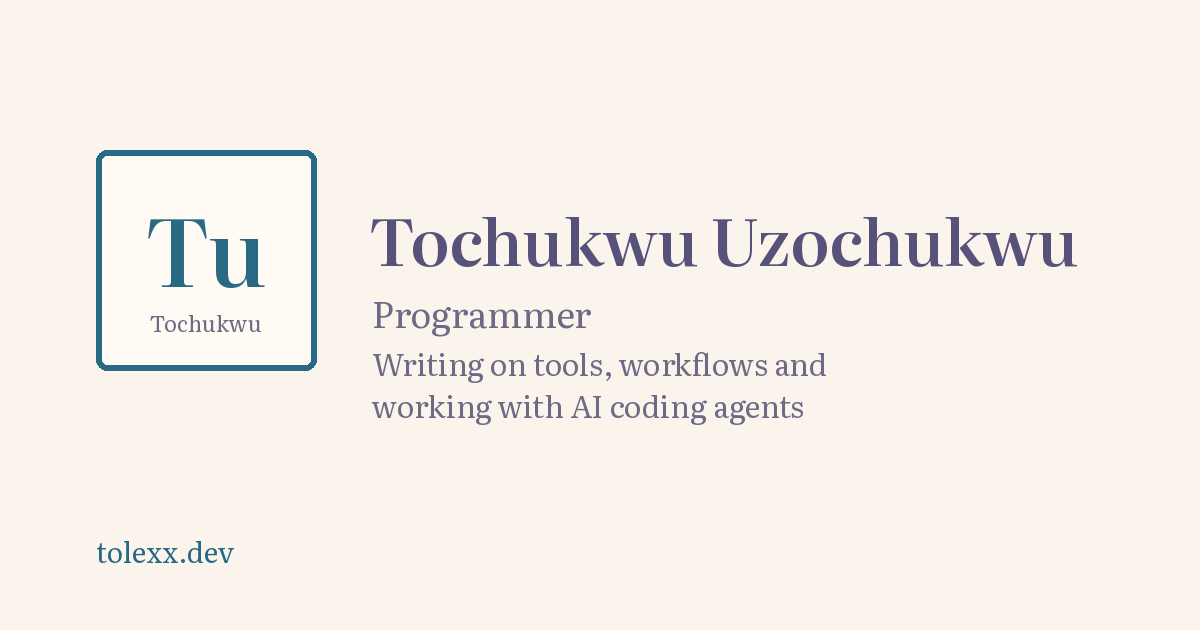
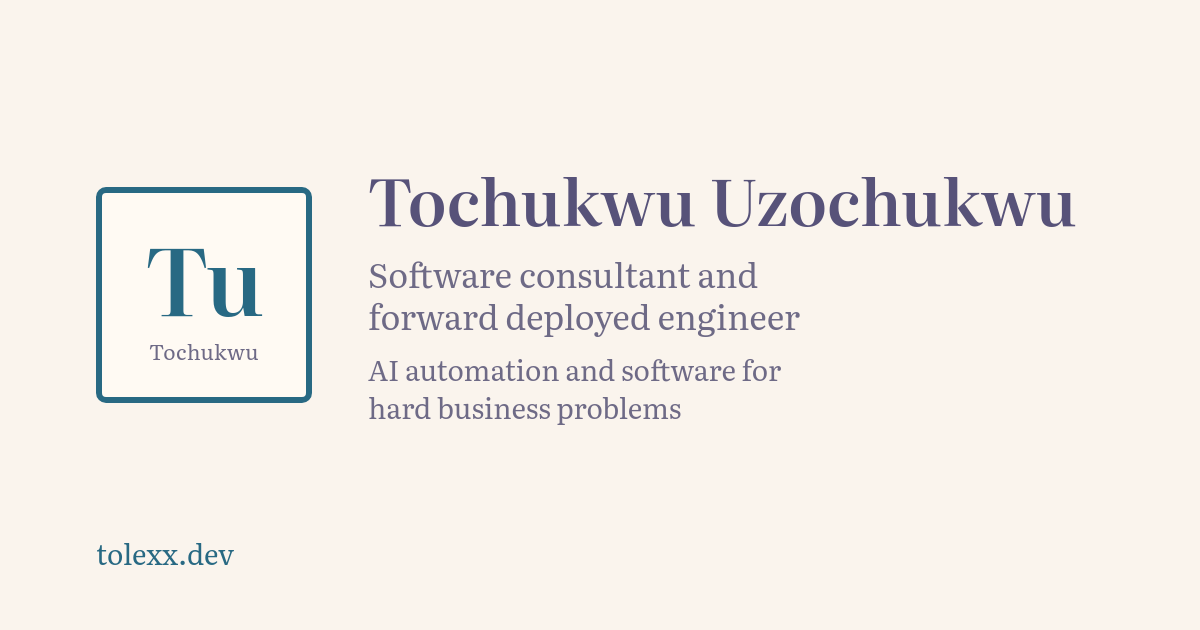
Update home page, add post on working with clients
- Rewrite home page intro and sections in plain language
- Add "How I work" and "Work with me" sections
- Add post: How I work with clients
- Update site tagline, description and preview image
- Keep preview image source in _og/

diff --git a/_og/og-default.html b/_og/og-default.html
@@ -1,0 +1,69 @@
+<!doctype html>
+<!--
+  Source for assets/images/og-default.png (the link preview image).
+  Jekyll skips folders that start with "_", so this file is never published.
+  Regenerate from the repository root. Headless Chrome leaves the bottom of a
+  1200x630 window blank, so render a taller window and crop it:
+    google-chrome --headless --hide-scrollbars --window-size=1200,800 \
+      --virtual-time-budget=5000 --screenshot=assets/images/og-default.png _og/og-default.html
+    python3 -c "from PIL import Image; p='assets/images/og-default.png'; Image.open(p).crop((0, 0, 1200, 630)).save(p)"
+-->
+<html lang="en">
+<head>
+<meta charset="utf-8">
+<link rel="stylesheet" href="https://fonts.googleapis.com/css2?family=Literata:opsz,wght@7..72,400;7..72,600&display=swap">
+<style>
+  html, body { margin: 0; }
+  body {
+    width: 1200px;
+    height: 630px;
+    box-sizing: border-box;
+    padding: 0 96px;
+    background: #faf4ed;
+    color: #575279;
+    font-family: "Literata", Georgia, serif;
+    position: relative;
+  }
+  .main {
+    display: flex;
+    align-items: center;
+    gap: 56px;
+    height: 100%;
+    padding-bottom: 40px;
+    box-sizing: border-box;
+  }
+  .tile {
+    flex: none;
+    width: 216px;
+    height: 216px;
+    box-sizing: border-box;
+    border: 6px solid #286983;
+    border-radius: 10px;
+    background: #fffaf3;
+    color: #286983;
+    display: grid;
+    place-content: center;
+    gap: 18px;
+    text-align: center;
+    line-height: 1;
+  }
+  .symbol { font-size: 92px; font-weight: 600; letter-spacing: -0.02em; }
+  .name { font-size: 21px; color: #6e6a86; letter-spacing: 0.02em; }
+  h1 { margin: 0 0 18px; font-size: 64px; font-weight: 600; line-height: 1.1; }
+  .role { margin: 0 0 14px; font-size: 34px; color: #6e6a86; line-height: 1.25; }
+  .line { margin: 0; font-size: 28px; color: #6e6a86; line-height: 1.35; }
+  .domain { position: absolute; left: 96px; bottom: 56px; margin: 0; font-size: 28px; color: #286983; }
+</style>
+</head>
+<body>
+  <div class="main">
+    <div class="tile"><span class="symbol">Tu</span><span class="name">Tochukwu</span></div>
+    <div>
+      <h1>Tochukwu Uzochukwu</h1>
+      <p class="role">Software consultant and<br>forward deployed engineer</p>
+      <p class="line">AI automation and software for<br>hard business problems</p>
+    </div>
+  </div>
+  <p class="domain">tolexx.dev</p>
+</body>
+</html>

diff --git a/_layouts/home.html b/_layouts/home.html
@@ -10,6 +10,7 @@ layout: default
     <h1>{{ page.heading }}</h1>
     <p class="lede">{{ page.lede }}</p>
     <ul class="link-row" aria-label="Contact and profiles">
+      <li><a href="#work-with-me">Work with me</a></li>
       <li><a href="mailto:{{ site.links.email }}">Email</a></li>
       <li><a href="{{ site.links.github }}">GitHub</a></li>
       <li><a href="{{ site.links.linkedin }}">LinkedIn</a></li>

diff --git a/_posts/2026-10-28-how-i-work-with-clients.md b/_posts/2026-10-28-how-i-work-with-clients.md
@@ -1,0 +1,63 @@
+---
+layout: post
+title: 'How I work with clients'
+date: 2026-10-28
+description: "How I take a business problem from a first conversation to working software your team can run."
+---
+
+Many software problems are business problems in disguise: a report someone
+builds by hand every week, a process only one person understands, a system
+everyone depends on that has become slow or fragile. My job is to understand
+the problem, then build and run the software that fixes it.
+
+This is how I approach that work.
+
+## 1. Understand the problem in your terms
+
+Before I suggest any tool, I want to know how the work happens today: who does
+it, how long it takes, what goes wrong and what that costs. A good solution
+starts from there, not from the technology.
+
+## 2. Start with the smallest useful thing
+
+Large projects fail slowly. I'd rather find one part of the problem we can
+solve quickly, put it in front of the people who use it, and learn from real
+use before building more.
+
+## 3. Measure before and after
+
+When my team's automated checks took 40 minutes to run, I measured where the
+time went before changing anything. That's how we got them down to 9 minutes.
+I take the same approach to any problem: agree on what "better" means, measure
+it, then show the result.
+
+## 4. Use AI where it helps, and check its work
+
+I work with AI agents every day. They now write much of the code I ship, and I
+review everything they produce. I wrote about
+[my setup]({% post_url 2026-10-22-why-i-switched-from-vscode-to-herdr %}).
+That has taught me where AI saves real time and where it needs a person to
+check it. When I bring AI into a business process, I design it the same way:
+automate the repetitive work, and keep a person in charge of the decisions
+that matter.
+
+## 5. Build for the long run
+
+Much of my work is on software that has run in production for years,
+including a medical imaging platform used in clinical trials. I've brought
+long-running applications up to date and added automatic security checks to
+catch problems early. What I build should be safe to run for years, not just
+on launch day.
+
+## 6. Hand over properly
+
+When a project ends, your team should be able to run it without me. That means
+clear documentation, plain explanations of the decisions behind it, and time
+with the people who will own it.
+
+## Working together
+
+I'm available for consulting projects and open to forward deployed engineering
+roles. If you have a problem you'd like solved, email me at
+[{{ site.links.email }}](mailto:{{ site.links.email }}) with a few lines about
+it.
